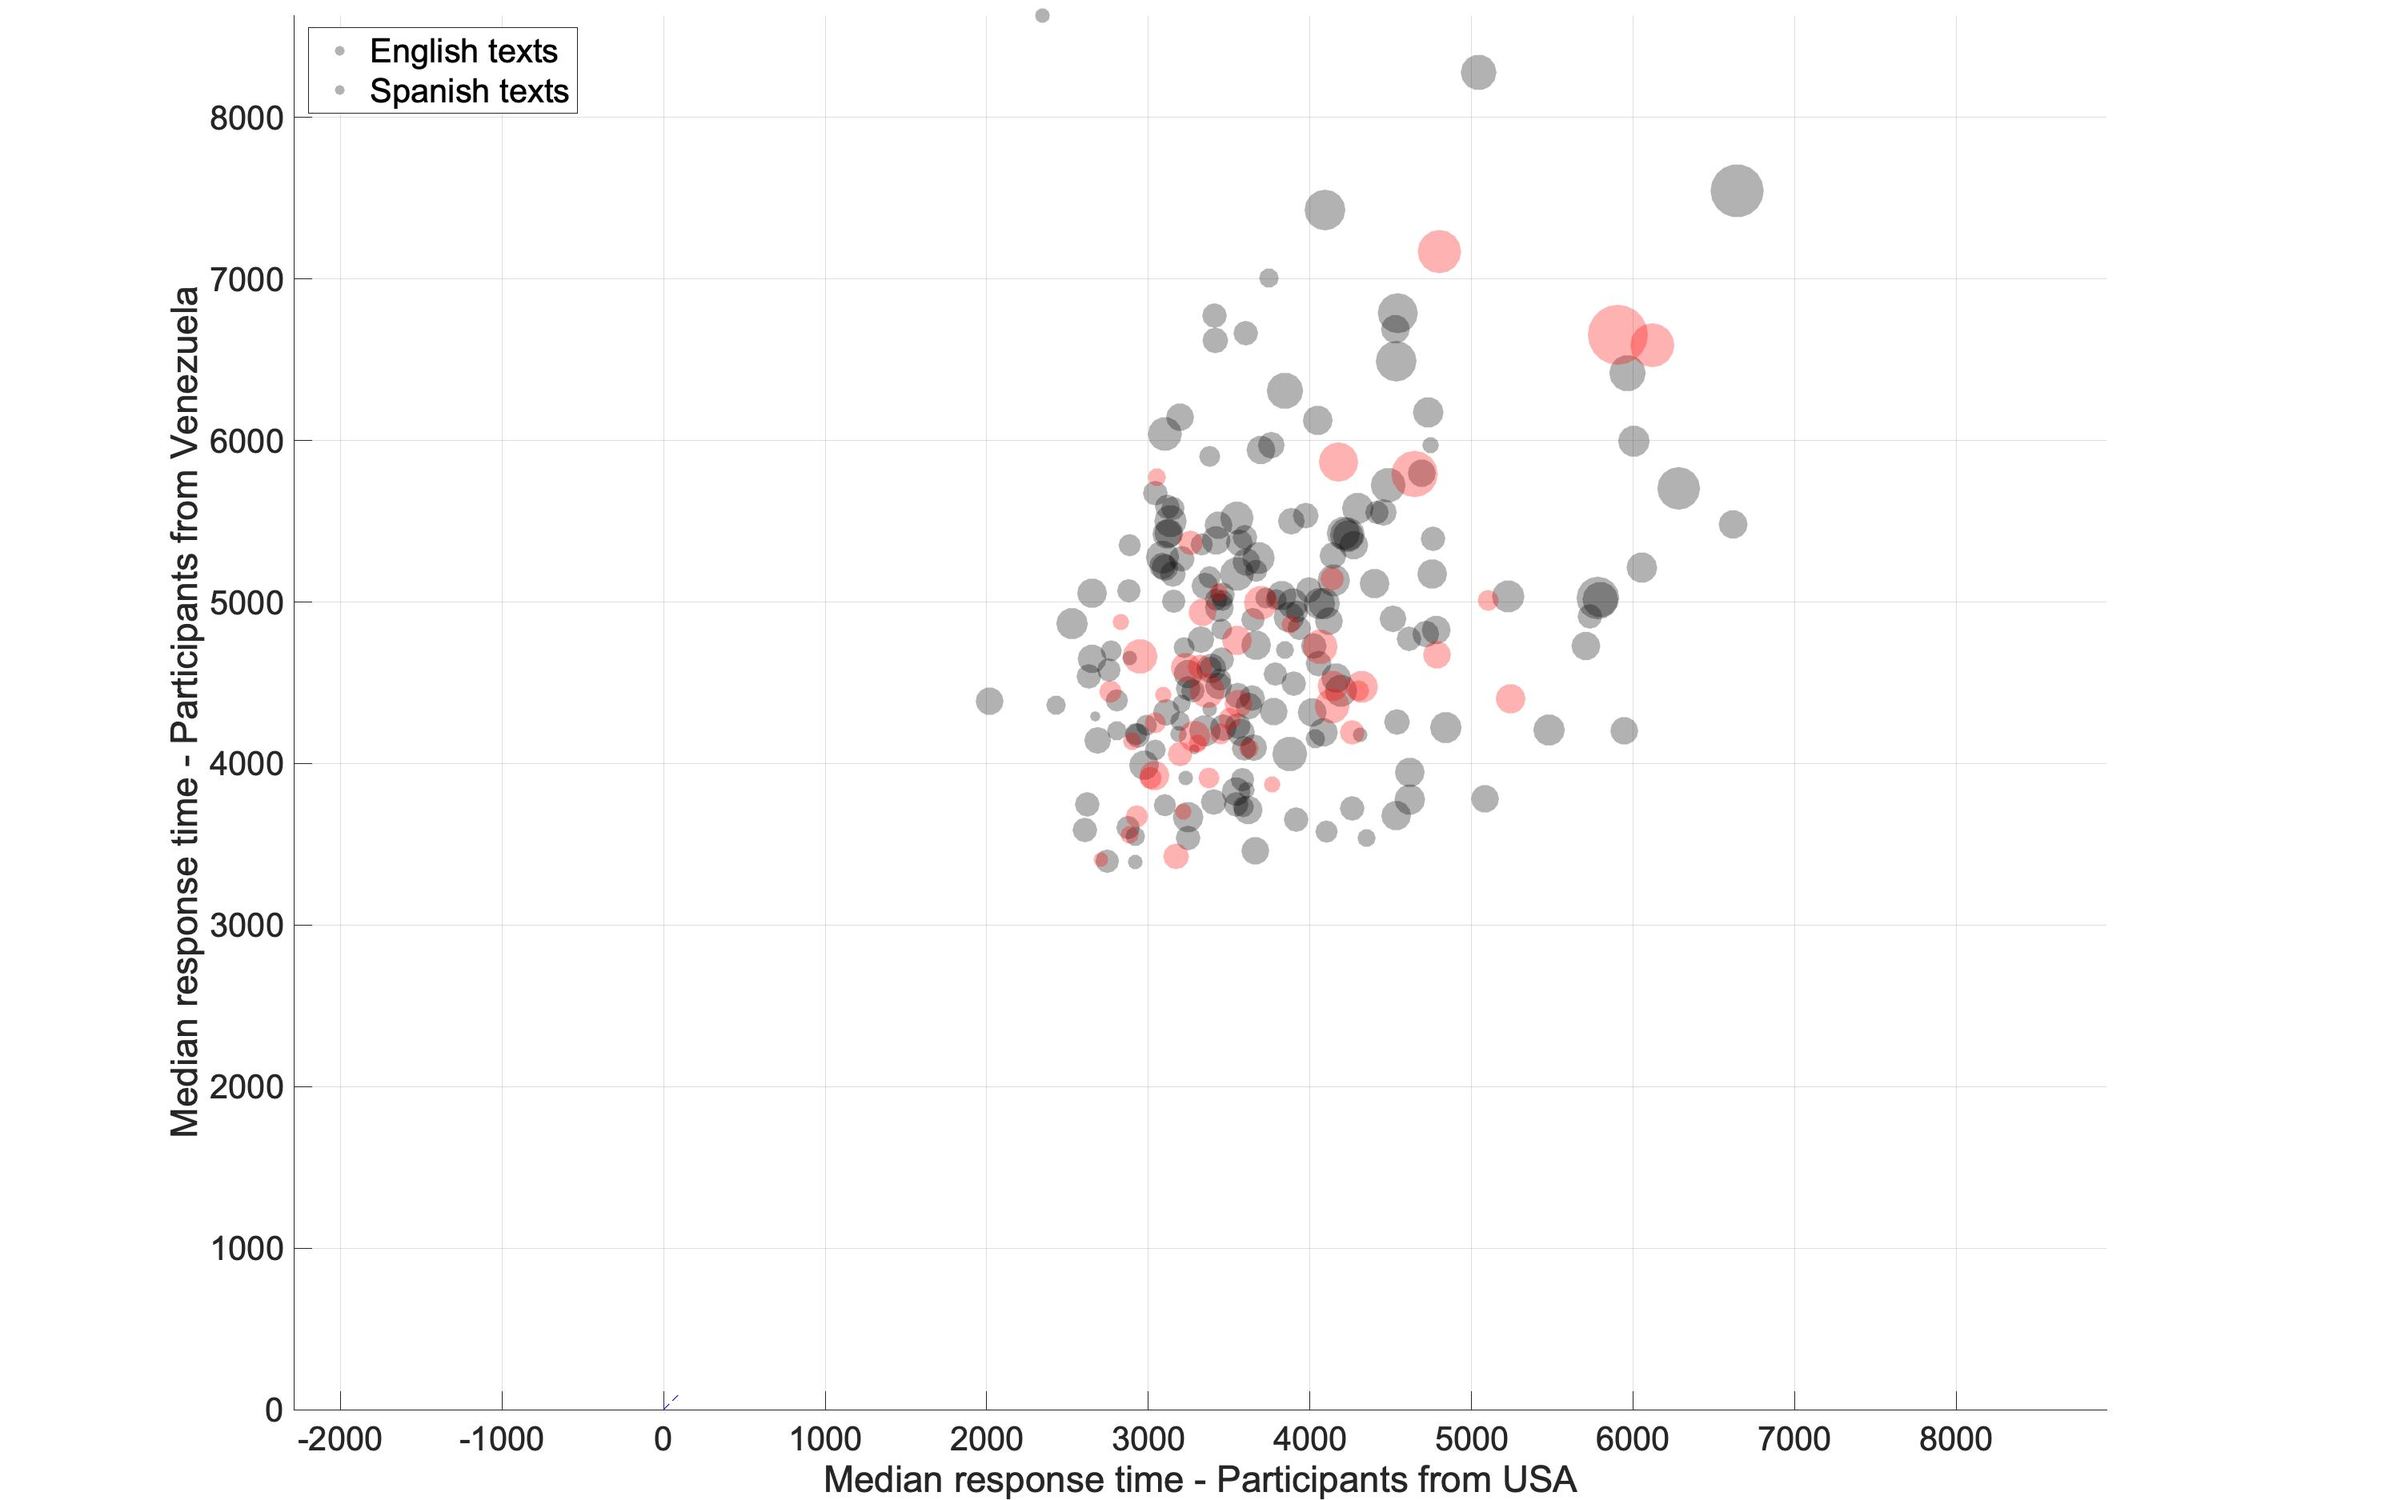
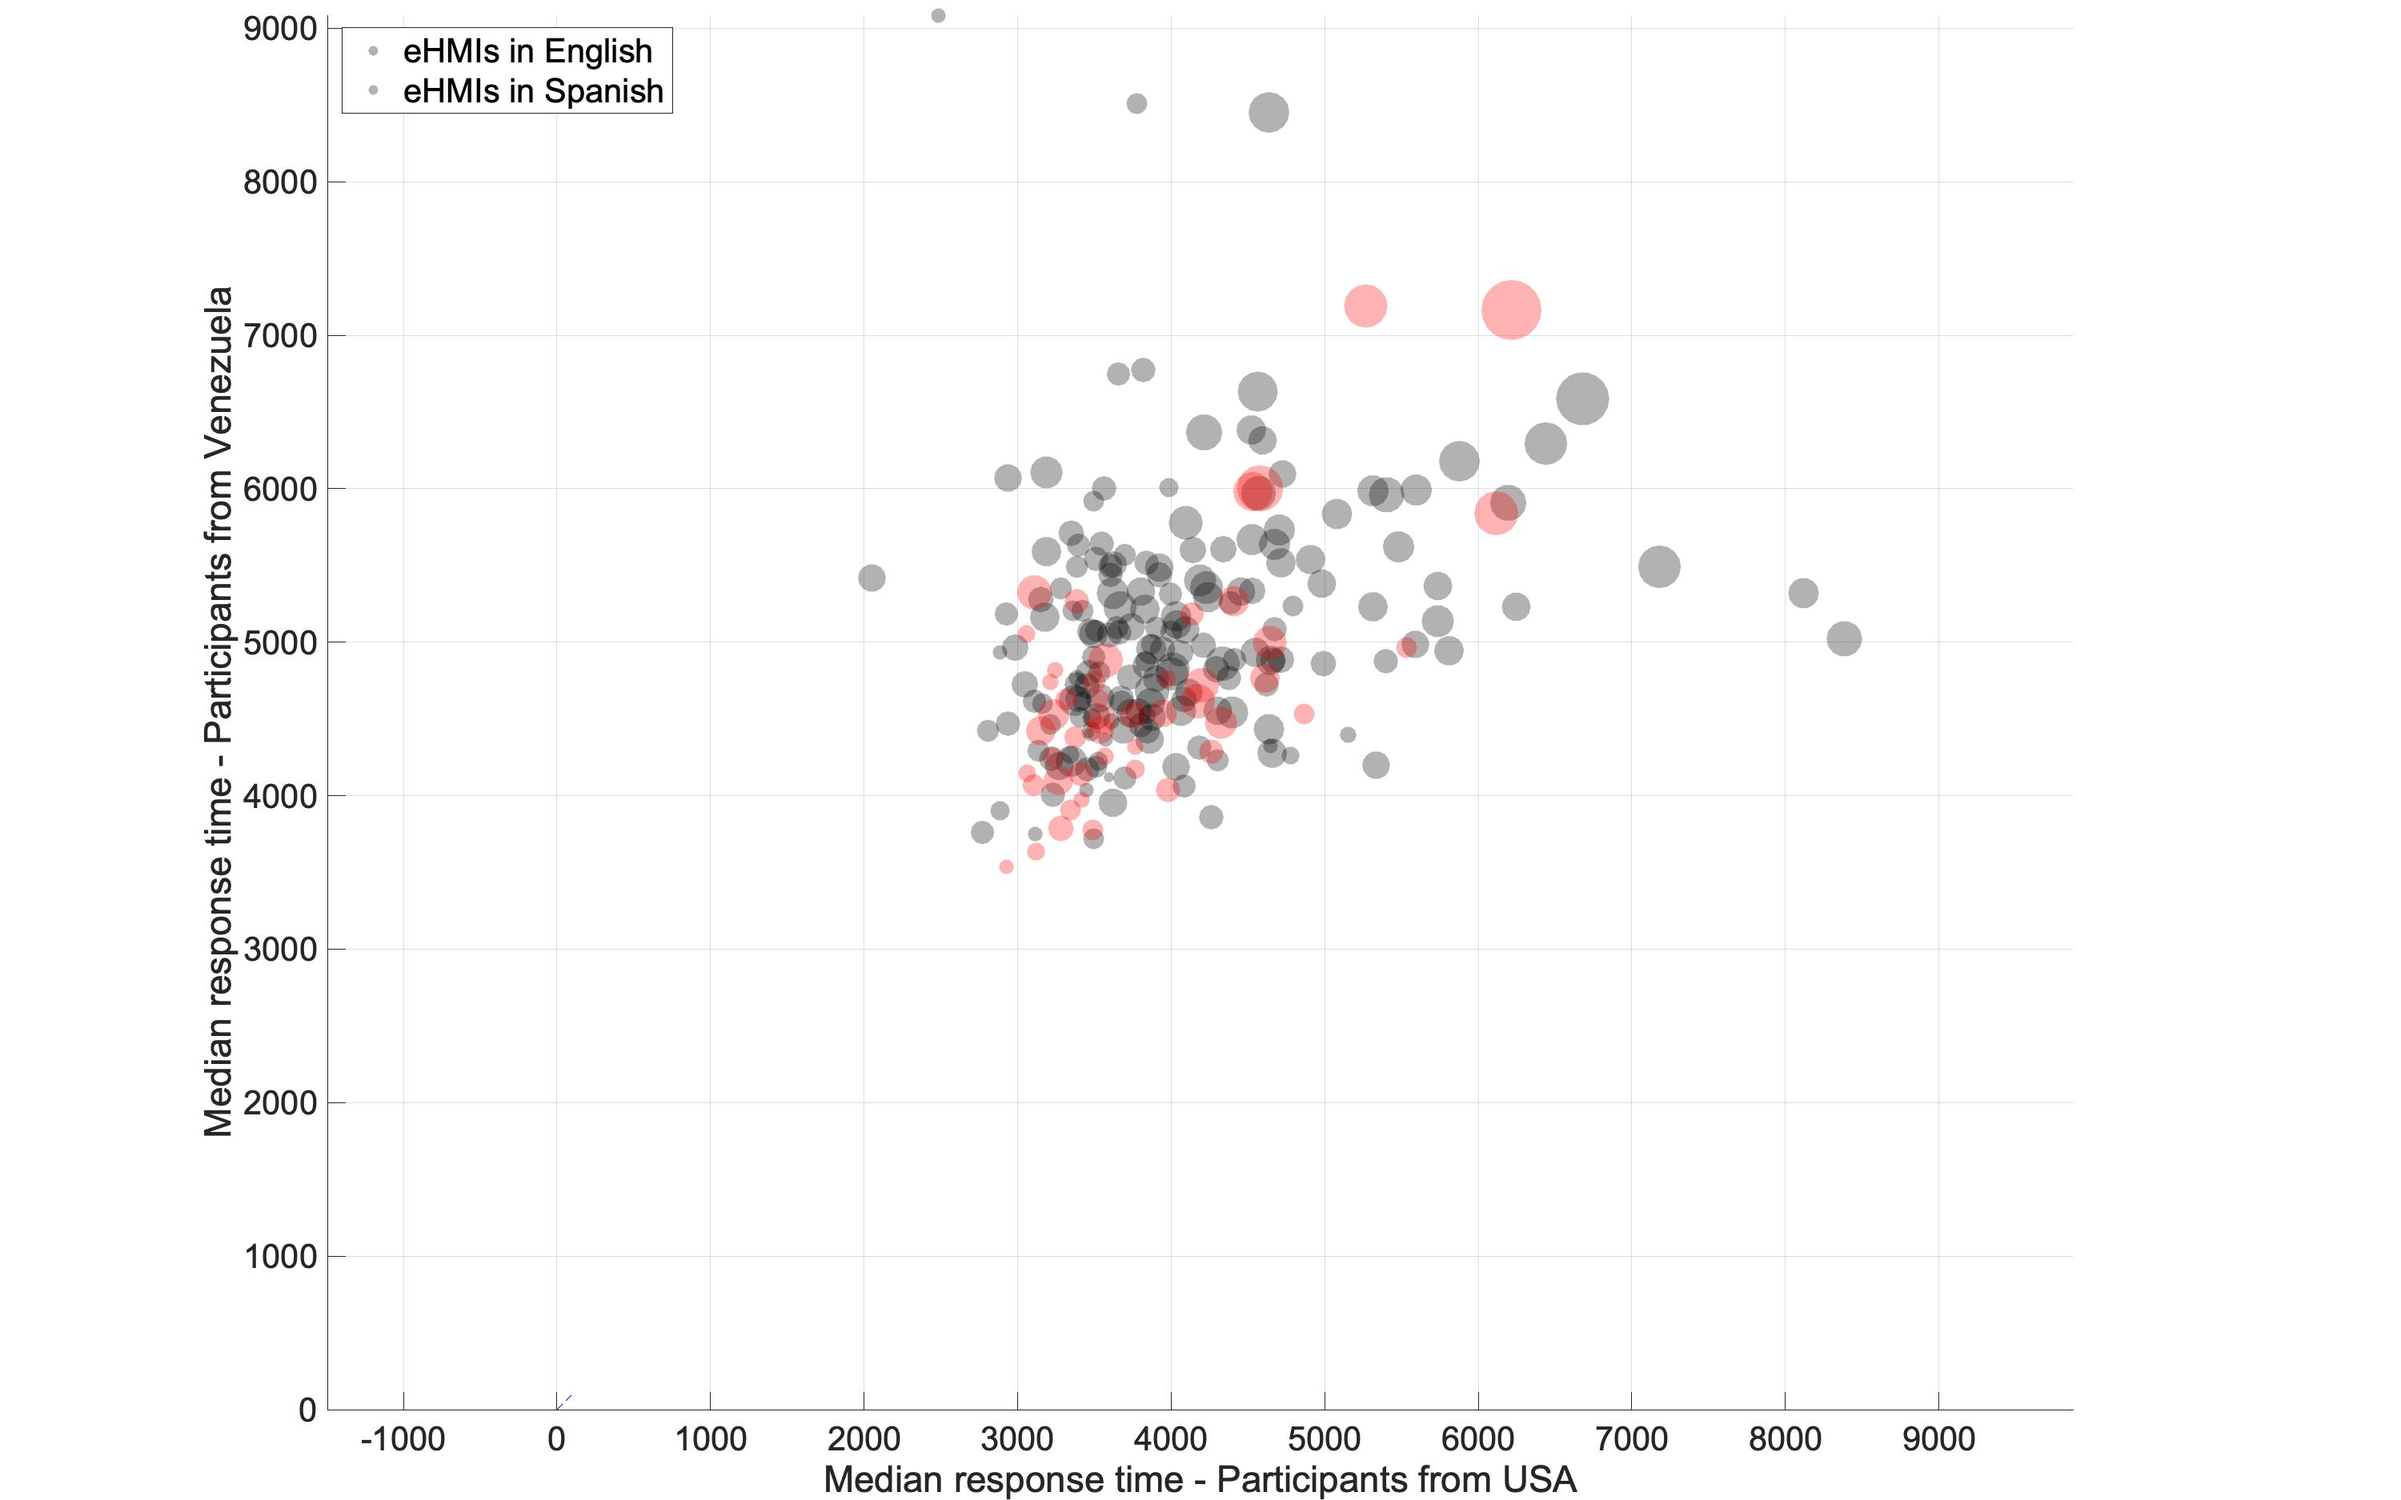
Updated data

diff --git a/textehmi/analysis/analysis.m b/textehmi/analysis/analysis.m
@@ -7,7 +7,6 @@ clear all;close all;clc; %#ok<*CLALL>
 N_STIMULI = 227;  % number of stimuli
 N_PERSON = 80;    % number of stimuli per person
 
-
 %% ************************************************************************
 %% Load config
 %% ************************************************************************
@@ -142,7 +141,7 @@ for i=181:227 % Spanish eHMIs
     scatter2=scatter(RPoMedUS(i),RPoMedVE(i),mapping{i,3}*20,'markerfacecolor','r','markeredgecolor','none');
     scatter2.MarkerFaceAlpha = .3;
 end
-legend('eHMIs in English','eHMIs in English','autoupdate','off','location','northwest')
+legend('eHMIs in English','eHMIs in Spanish','autoupdate','off','location','northwest')
 plot([0 100],[0 100],'b--')
 xlabel('Median willingness to cross - participants from USA');
 ylabel('Median willingness to cross - participants from Venezuela');
@@ -164,7 +163,7 @@ for i=181:227 % Spanish texts
     scatter2=scatter(RToMedUS(i),RToMedVE(i),mapping{i,3}*20,'markerfacecolor','r','markeredgecolor','none');
     scatter2.MarkerFaceAlpha = .3;
 end
-legend('English texts','Spanish texts','autoupdate','off','location','northwest')
+legend('eHMIs in English','eHMIs in Spanish','autoupdate','off','location','northwest')
 plot([0 100],[0 100],'b--')
 xlabel('Median response time - Participants from USA');
 ylabel('Median response time - Participants from Venezuela');
